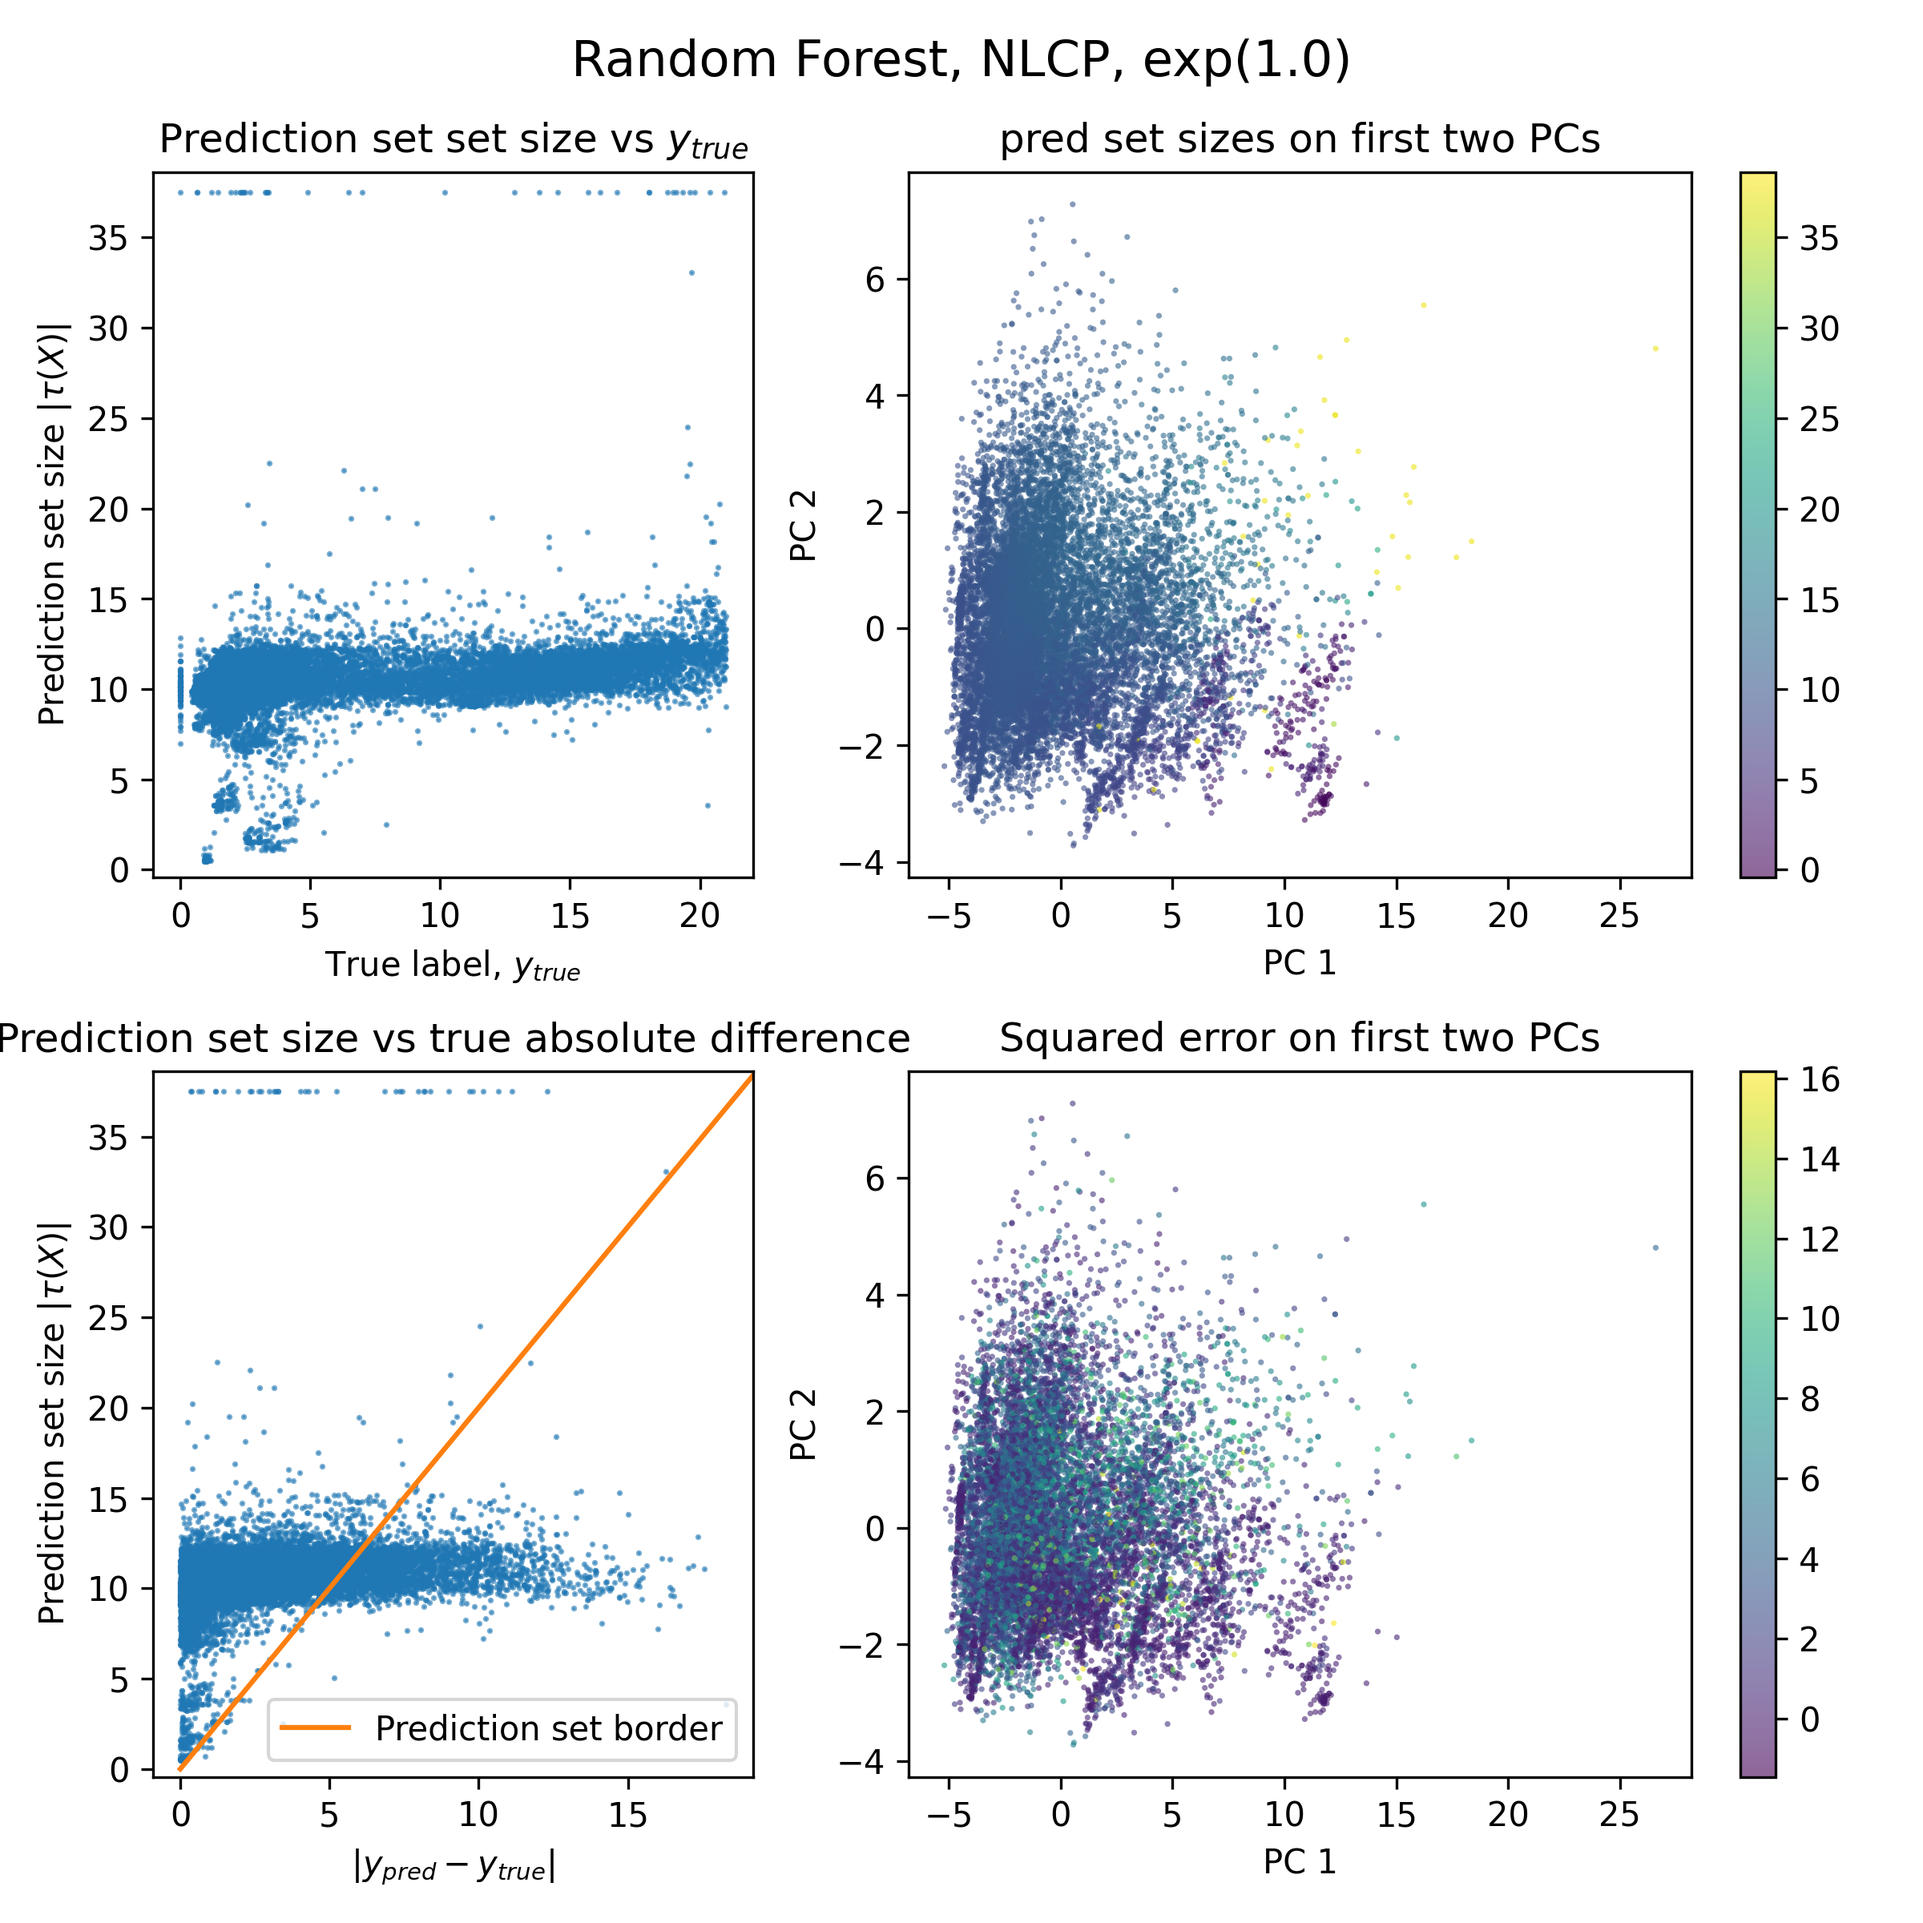
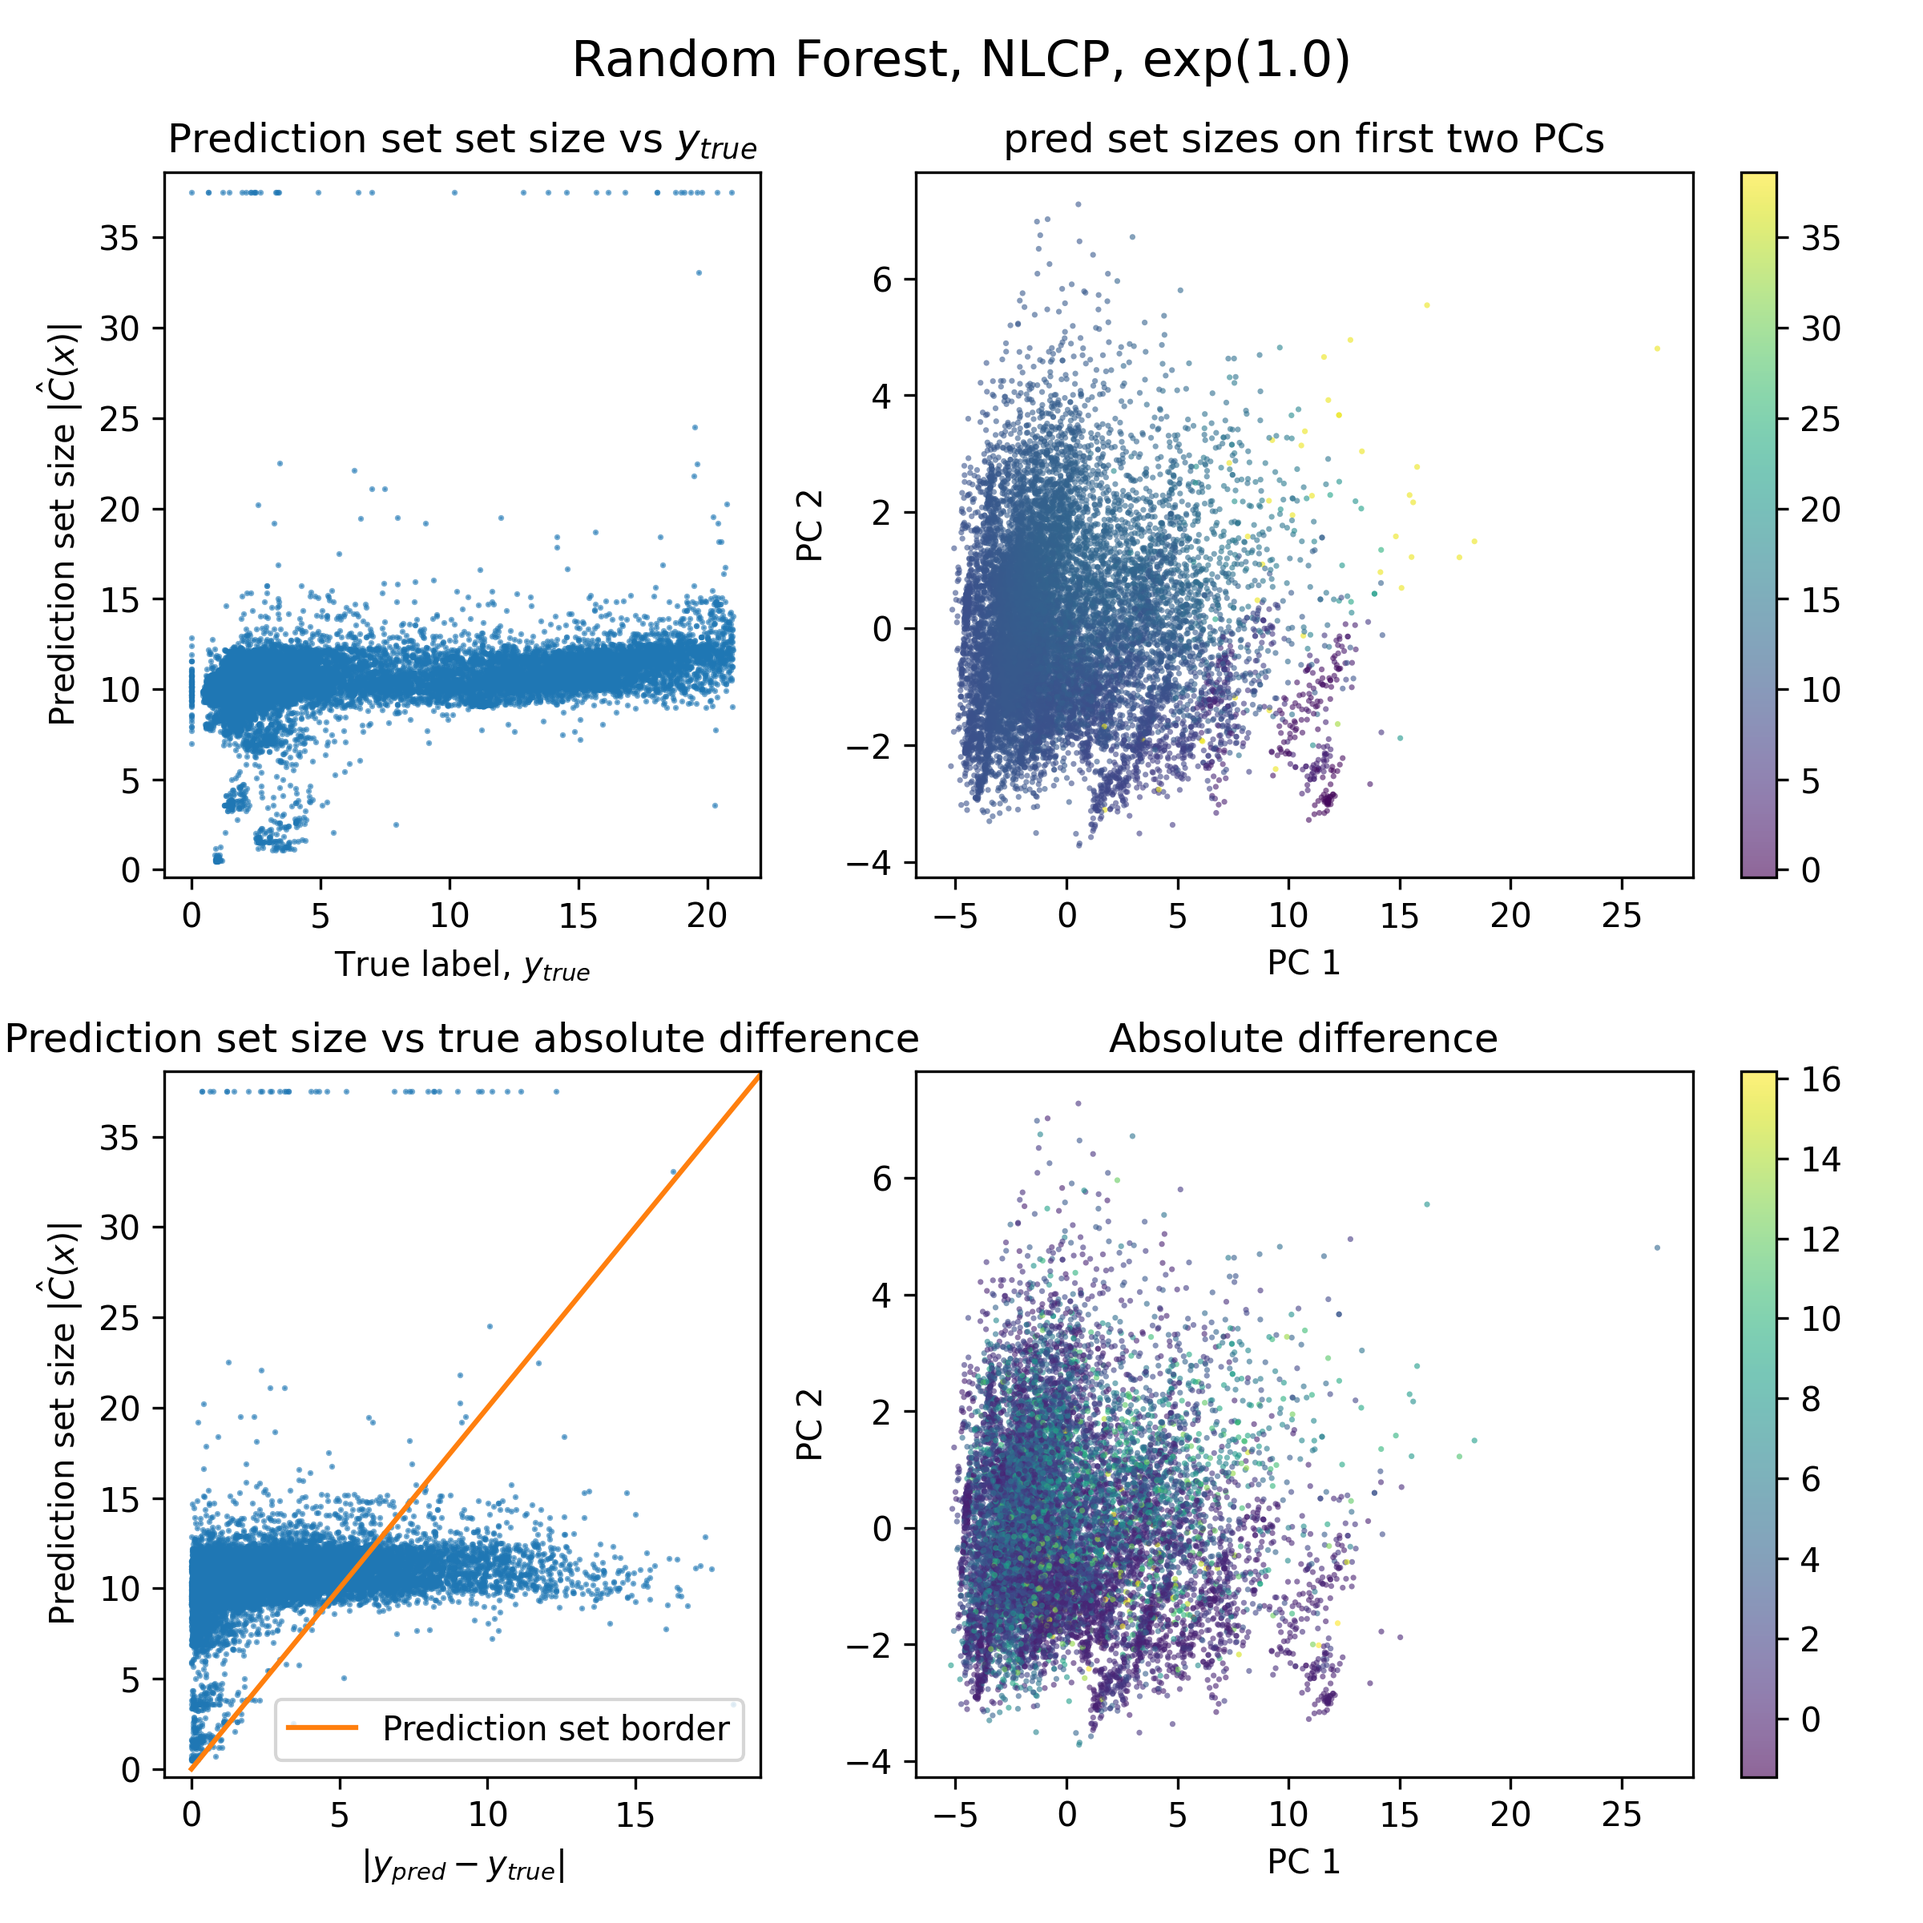
results update

diff --git a/regression_plotting.py b/regression_plotting.py
@@ -6,6 +6,8 @@ from sklearn.decomposition import PCA
 from Toolbox.plot_helpers import barplot, scatter, compute_lim, finalize_plot
 from sklearn.metrics import mean_squared_error
 
+show_plots = True
+
 pca = PCA()
 results_path = mpath("results/protein_results/")
 
@@ -41,14 +43,14 @@ plt.rcParams["figure.figsize"] = (6,4)
 plt.rcParams["figure.dpi"] = 200
 
 #%%
-show = False
+
 X_pca = pca.fit_transform(X_standard)
 test_X_pca = pca.transform(test_X)
 
 scatter(X_pca, y, alpha = 0.6)
 plt.title("$y_{true}$ on PCs")
 # plt.show()
-finalize_plot(path = path + "PCA_of_X", show=show)
+finalize_plot(path = path + "PCA_of_X", show=show_plots)
 
 #%%
 
@@ -83,7 +85,7 @@ for group_name, results in cp_result_groups.items():
     plt.legend()
     # plt.tight_layout()
     # plt.show()
-    finalize_plot(path = path + "pred_set_size_histograms_" + group_dict[group_name], show=show)
+    finalize_plot(path = path + "pred_set_size_histograms_" + group_dict[group_name], show=show_plots)
     
 #%%
 
@@ -145,7 +147,7 @@ for group_name, results in cp_result_groups.items():
 
         ax1.legend(loc = 'upper left')
         ax2.legend()
-        finalize_plot(path = path + "binned_FSC_" + f"PC{i+1}_{group_dict[group_name]}", show=show)
+        finalize_plot(path = path + "binned_FSC_" + f"PC{i+1}_{group_dict[group_name]}", show=show_plots)
 
         
 #%%
@@ -182,13 +184,10 @@ for group_name, results in cp_result_groups.items():
         ax1.plot(x_labels, conditional_coverage, label = f"{result.cp_model_name[4:]}, sd={conditional_coverage_std[-1]:.4f}",
                  linewidth=linewidth, alpha=alpha)
 
-    # ax1.set_ylim(min_c - (max_c-min_c)*0.4, max_c + (max_c-min_c)*0.5)
-    if "Basic" in result.cp_model_name:
-        plt.vlines(np.mean(result.pred_set_sizes), *plt.gca().get_ylim(), label = "Basic CP", color='black', linewidth = 6, alpha = 0.4)
+    # for r in results:
+        # if "Basic" in result.cp_model_name:
+        #     plt.vlines(np.mean(result.pred_set_sizes), *plt.gca().get_ylim(), label = "Basic CP", color='black', linewidth = 6, alpha = 0.4)
     plt.suptitle(group_dict[group_name])
-    # labels = ax2.get_yticks()
-    # ax2.set_yticks(labels/3)
-
 
     ax1.set_xlabel(f'Prediction Set Size')
     ax1.set_ylabel('Empirical bin conditional coverage')
@@ -196,7 +195,7 @@ for group_name, results in cp_result_groups.items():
 
     ax1.legend(loc = 'upper left')
     ax2.legend()
-    finalize_plot(path = path + "binned_SSC_" + f"{group_dict[group_name]}", show=show)
+    finalize_plot(path = path + "binned_SSC_" + f"{group_dict[group_name]}", show=show_plots)
 
 
 #%%
@@ -221,7 +220,7 @@ for result in cp_results:
     )
     ax1.set_title("Prediction set set size vs $y_{true}$")
     ax1.set_xlabel("True label, $y_{true}$")
-    ax1.set_ylabel(r"Prediction set size $|\tau(X)|$")
+    ax1.set_ylabel(r"Prediction set size $|\hat C(x)|$")
     ax1.set_ylim(compute_lim(result.pred_set_sizes, lim_level))
 
     ax2 = plt.subplot2grid((4, 5), (2, 0), rowspan=2, colspan=2)
@@ -233,7 +232,7 @@ for result in cp_results:
     )
     ax2.set_title("Prediction set size vs true absolute difference")
     ax2.set_xlabel("$|y_{pred}-y_{true}$|")
-    ax2.set_ylabel(r"Prediction set size $|\tau(X)|$")
+    ax2.set_ylabel(r"Prediction set size $|\hat C(x)|$")
     xlim = ax2.get_xlim()
     if not "Basic" in result.cp_model_name:
         ax2.plot([0,100],[0,200], label="Prediction set border")
@@ -256,13 +255,13 @@ for result in cp_results:
     ax4 = plt.subplot2grid((4, 5), (2, 2), rowspan=2, colspan=3)
     quantity = np.abs(result.y_preds - test_y)
     scatter(test_X_pca, quantity, adapt_lim_level=lim_level, alpha=plot_alpha, s=s)
-    ax4.set_title('Squared error on first two PCs')
+    ax4.set_title('Absolute difference')
     ax4.set_xlabel("PC 1")
     ax4.set_ylabel("PC 2")
     ax4.plot()
     plt.suptitle(group_dict[result.cp_model_name[:2]] + result.cp_model_name[2:], fontsize = 15)
 
-    finalize_plot(path = path + "overview_plots_" + replace(result.cp_model_name, r'.<>:"/\|?*', "_"), show=show)
+    finalize_plot(path = path + "overview_plots_" + replace(result.cp_model_name, r'.<>:"/\|?*', "_"), show=show_plots)
 
 
 
@@ -271,6 +270,8 @@ for result in cp_results:
 
 
 #%%
+
+# export latex table
 
 a = "{D^{test}}"
 b = "|\hat C(x)|"
